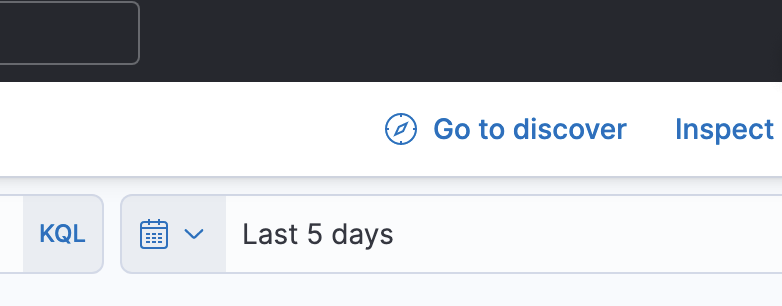
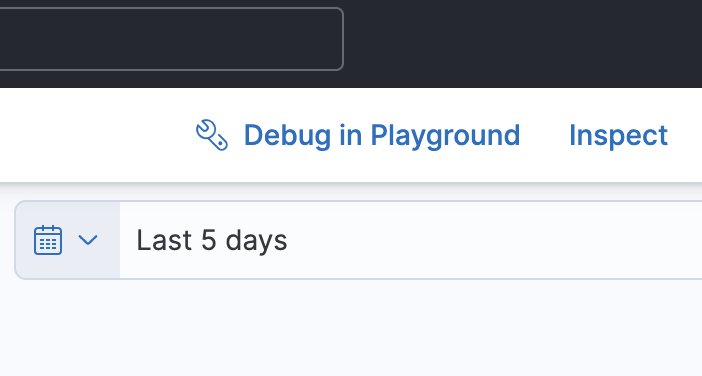
[Lens][Example] Change custom link example to point to playground (#126345)
* :sparkles: Change custom link to point to playground

* :bug: Add filters when navigating to playground

diff --git a/x-pack/examples/third_party_lens_navigation_prompt/public/plugin.ts b/x-pack/examples/third_party_lens_navigation_prompt/public/plugin.ts
@@ -5,7 +5,6 @@
  * 2.0.
  */
 
-import { DiscoverSetup } from 'src/plugins/discover/public';
 import { DataPublicPluginStart } from 'src/plugins/data/public';
 import { Plugin, CoreSetup, AppNavLinkStatus } from '../../../../src/core/public';
 import { DataViewsPublicPluginStart, DataView } from '../../../../src/plugins/data_views/public';
@@ -22,7 +21,6 @@ import image from './image.png';
 export interface SetupDependencies {
   developerExamples: DeveloperExamplesSetup;
   lens: LensPublicSetup;
-  discover: DiscoverSetup;
 }
 
 export interface StartDependencies {
@@ -94,10 +92,7 @@ function getLensAttributes(defaultDataView: DataView): TypedLensByValueInput['at
 export class EmbeddedLensExamplePlugin
   implements Plugin<void, void, SetupDependencies, StartDependencies>
 {
-  public setup(
-    core: CoreSetup<StartDependencies>,
-    { developerExamples, lens, discover }: SetupDependencies
-  ) {
+  public setup(core: CoreSetup<StartDependencies>, { developerExamples, lens }: SetupDependencies) {
     core.application.register({
       id: 'third_party_lens_navigation_prompt',
       title: 'Third party Lens navigation prompt',
@@ -123,7 +118,7 @@ export class EmbeddedLensExamplePlugin
       appId: 'third_party_lens_navigation_prompt',
       title: 'Third party Lens navigation prompt',
       description:
-        'Add custom menu entries to the Lens editor, like the "Go to discover" link in this example.',
+        'Add custom menu entries to the Lens editor, like the "Debug in Playground" link in this example.',
       image,
       links: [
         {
@@ -136,33 +131,54 @@ export class EmbeddedLensExamplePlugin
       ],
     });
 
-    if (!discover.locator) return;
-    lens.registerTopNavMenuEntryGenerator(({ datasourceStates, query, filters }) => {
-      if (!datasourceStates.indexpattern.state) return;
+    lens.registerTopNavMenuEntryGenerator(
+      ({ visualizationId, visualizationState, datasourceStates, query, filters }) => {
+        if (!datasourceStates.indexpattern.state || !visualizationState) return;
 
-      return {
-        label: 'Go to discover',
-        iconType: 'discoverApp',
-        run: async () => {
-          const [, { data }] = await core.getStartServices();
-          const firstLayer = Object.values(
-            (datasourceStates.indexpattern.state as IndexPatternPersistedState).layers
-          )[0] as PersistedIndexPatternLayer & { indexPatternId: string };
-          discover.locator!.navigate({
-            indexPatternId: firstLayer.indexPatternId,
-            timeRange: data.query.timefilter.timefilter.getTime(),
-            filters,
-            query,
-            columns: firstLayer.columnOrder
-              .map((columnId) => {
-                const column = firstLayer.columns[columnId];
-                if ('sourceField' in column) return column.sourceField;
-              })
-              .filter(Boolean) as string[],
-          });
-        },
-      };
-    });
+        return {
+          label: 'Debug in Playground',
+          iconType: 'wrench',
+          run: async () => {
+            const [coreStart] = await core.getStartServices();
+            const datasourceState = datasourceStates.indexpattern
+              .state as IndexPatternPersistedState;
+            const layersIds = Object.keys(datasourceState.layers);
+            const layers = Object.values(datasourceState.layers) as Array<
+              PersistedIndexPatternLayer & { indexPatternId: string }
+            >;
+            const serializedFilters = JSON.parse(JSON.stringify(filters));
+            coreStart.application.navigateToApp('testing_embedded_lens', {
+              state: {
+                visualizationType: visualizationId,
+                title: 'Lens visualization',
+                references: [
+                  {
+                    id: layers[0].indexPatternId,
+                    name: 'indexpattern-datasource-current-indexpattern',
+                    type: 'index-pattern',
+                  },
+                  ...layers.map(({ indexPatternId }, i) => ({
+                    id: indexPatternId,
+                    name: `indexpattern-datasource-layer-${layersIds[i]}`,
+                    type: 'index-pattern',
+                  })),
+                ],
+                state: {
+                  datasourceStates: {
+                    indexpattern: {
+                      layers: datasourceState.layers,
+                    },
+                  },
+                  visualization: visualizationState,
+                  filters: serializedFilters,
+                  query,
+                },
+              },
+            });
+          },
+        };
+      }
+    );
   }
 
   public start() {}

diff --git a/x-pack/examples/testing_embedded_lens/public/app.tsx b/x-pack/examples/testing_embedded_lens/public/app.tsx
@@ -372,6 +372,7 @@ export const App = (props: {
   plugins: StartDependencies;
   defaultDataView: DataView;
   stateHelpers: Awaited<ReturnType<LensPublicStart['stateHelperApi']>>;
+  preloadedVisualization: TypedLensByValueInput['attributes'];
 }) => {
   const [isLoading, setIsLoading] = useState(false);
   const [isSaveModalVisible, setIsSaveModalVisible] = useState(false);
@@ -380,7 +381,11 @@ export const App = (props: {
   const [enableTriggers, toggleTriggers] = useState(false);
   const [loadedCharts, addChartConfiguration] = useState<
     Array<{ id: string; attributes: TypedLensByValueInput['attributes'] }>
-  >([]);
+  >(
+    props.preloadedVisualization
+      ? [{ id: 'from_lens', attributes: props.preloadedVisualization }]
+      : []
+  );
   const [hasParsingError, setErrorFlag] = useState(false);
   const [hasParsingErrorDebounced, setErrorDebounced] = useState(hasParsingError);
   const LensComponent = props.plugins.lens.EmbeddableComponent;
@@ -414,8 +419,11 @@ export const App = (props: {
   // eslint-disable-next-line react-hooks/exhaustive-deps
   const charts = useMemo(() => [...defaultCharts, ...loadedCharts], [loadedCharts]);
 
-  // eslint-disable-next-line react-hooks/exhaustive-deps
-  const initialAttributes = useMemo(() => JSON.stringify(charts[0].attributes, null, 2), []);
+  const initialAttributes = useMemo(
+    () => JSON.stringify(props.preloadedVisualization ?? charts[0].attributes, null, 2),
+    // eslint-disable-next-line react-hooks/exhaustive-deps
+    []
+  );
 
   const currentSO = useRef<string>(initialAttributes);
   const [currentValid, saveValidSO] = useState(initialAttributes);

diff --git a/x-pack/examples/testing_embedded_lens/public/mount.tsx b/x-pack/examples/testing_embedded_lens/public/mount.tsx
@@ -11,26 +11,30 @@ import { EuiCallOut } from '@elastic/eui';
 
 import type { CoreSetup, AppMountParameters } from 'kibana/public';
 import type { StartDependencies } from './plugin';
+import type { TypedLensByValueInput } from '../../../plugins/lens/public';
 
 export const mount =
   (coreSetup: CoreSetup<StartDependencies>) =>
-  async ({ element }: AppMountParameters) => {
+  async ({ element, history }: AppMountParameters) => {
     const [core, plugins] = await coreSetup.getStartServices();
     const { App } = await import('./app');
+    const preloadedVisualizationAttributes = history.location
+      ?.state as TypedLensByValueInput['attributes'];
 
-    const defaultDataView = await plugins.data.indexPatterns.getDefault();
+    const dataView = await plugins.data.indexPatterns.getDefault();
     const stateHelpers = await plugins.lens.stateHelperApi();
 
     const i18nCore = core.i18n;
 
     const reactElement = (
       <i18nCore.Context>
-        {defaultDataView ? (
+        {dataView ? (
           <App
             core={core}
             plugins={plugins}
-            defaultDataView={defaultDataView}
+            defaultDataView={dataView}
             stateHelpers={stateHelpers}
+            preloadedVisualization={preloadedVisualizationAttributes}
           />
         ) : (
           <EuiCallOut
